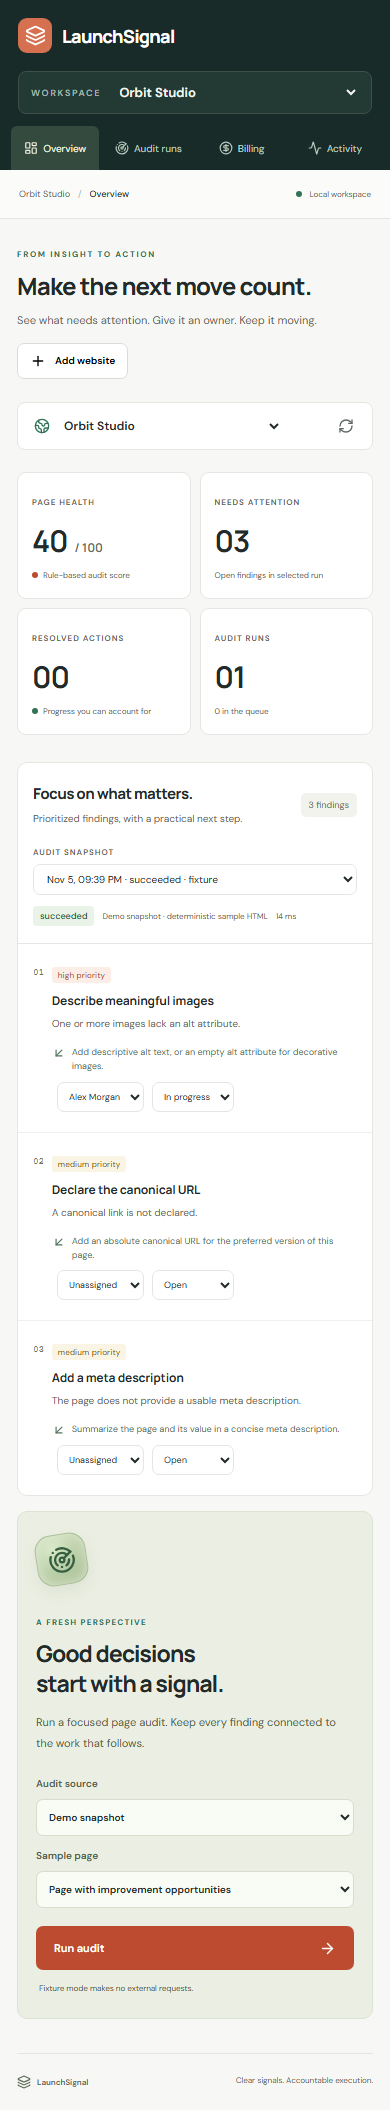
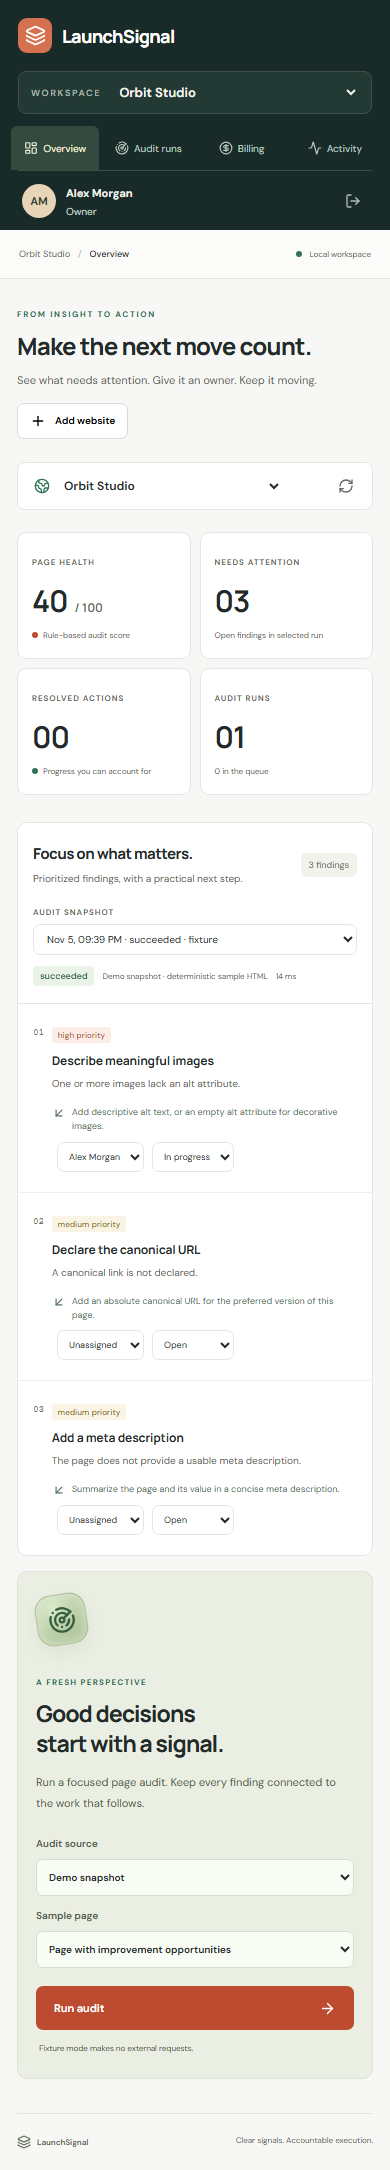
fix: isolate session state and tighten audit and billing invariants

diff --git a/frontend/src/app/page.tsx b/frontend/src/app/page.tsx
@@ -68,7 +68,8 @@ export default function Page() {
   const currentSpace = spaces.find((x) => x.workspace_id === workspace);
   const currentProject = projects.find((x) => x.id === project);
   const currentRun = runs.find((x) => x.id === selected);
-  const canWrite = currentSpace?.role !== "viewer";
+  const canWrite =
+    currentSpace?.role === "owner" || currentSpace?.role === "editor";
 
   const loadSpaces = useCallback(async () => {
     const result = await api<Workspace[]>("workspaces");
@@ -88,9 +89,15 @@ export default function Page() {
   }, [loadSpaces]);
 
   useEffect(() => {
-    if (!workspace) return;
     const stamp = ++generation.current;
     setMembers([]);
+    setProjects([]);
+    setProject("");
+    setRuns([]);
+    setSelected("");
+    setFindings([]);
+    setError("");
+    if (!workspace) return;
     api<{ id: number; name: string }[]>(`workspaces/${workspace}/members`)
       .then((items) => {
         if (generation.current === stamp) setMembers(items);
@@ -98,12 +105,6 @@ export default function Page() {
       .catch((e) => {
         if (generation.current === stamp) setError(e.message);
       });
-    setProjects([]);
-    setProject("");
-    setRuns([]);
-    setSelected("");
-    setFindings([]);
-    setError("");
     api<Project[]>(`workspaces/${workspace}/projects`)
       .then((items) => {
         if (generation.current !== stamp) return;
@@ -163,10 +164,10 @@ export default function Page() {
   }, [loadFindings, currentRun?.status]);
 
   useEffect(() => {
-    if (!workspace) return;
-    let active = true;
     setInvoices([]);
     setEvents([]);
+    if (!workspace) return;
+    let active = true;
     if (view === "billing")
       api<Invoice[]>(`workspaces/${workspace}/billing`)
         .then((x) => {
@@ -206,8 +207,8 @@ export default function Page() {
         }),
       });
       setCSRF(session.csrf_token);
-      setUser(session.user);
       await loadSpaces();
+      setUser(session.user);
     } catch (e) {
       setError((e as Error).message);
     } finally {
@@ -375,8 +376,22 @@ export default function Page() {
             onClick={async () => {
               try {
                 await api("auth/logout", { method: "POST" });
+                generation.current++;
+                runGeneration.current++;
+                findingGeneration.current++;
                 setUser(null);
+                setSpaces([]);
                 setWorkspace("");
+                setMembers([]);
+                setProjects([]);
+                setProject("");
+                setRuns([]);
+                setSelected("");
+                setFindings([]);
+                setInvoices([]);
+                setEvents([]);
+                setView("overview");
+                setError("");
               } catch (e) {
                 setError((e as Error).message);
               }

diff --git a/frontend/tests/workspace.spec.ts b/frontend/tests/workspace.spec.ts
@@ -149,3 +149,62 @@ test("create site, process a real queued audit and isolate workspace data", asyn
     page.getByRole("heading", { name: "Welcome back." }),
   ).toBeVisible();
 });
+
+test("session boundary keeps the login screen until fresh workspace data arrives", async ({
+  page,
+}) => {
+  await signIn(page);
+  await page.getByRole("button", { name: "Sign out" }).click();
+  await expect(
+    page.getByRole("heading", { name: "Welcome back." }),
+  ).toBeVisible();
+  let release!: () => void;
+  let captured!: () => void;
+  const gate = new Promise<void>((resolve) => {
+    release = resolve;
+  });
+  const requested = new Promise<void>((resolve) => {
+    captured = resolve;
+  });
+  await page.route("**/api/workspaces", async (route) => {
+    captured();
+    await gate;
+    await route.continue();
+  });
+  await page
+    .getByLabel("Password", { exact: true })
+    .fill(process.env.DEMO_PASSWORD || "");
+  await page.getByRole("button", { name: "Enter workspace" }).click();
+  await requested;
+  try {
+    await page.evaluate(
+      () =>
+        new Promise((resolve) =>
+          requestAnimationFrame(() => requestAnimationFrame(resolve)),
+        ),
+    );
+    await expect(
+      page.getByRole("heading", { name: "Welcome back." }),
+    ).toBeVisible();
+    await expect(
+      page.getByRole("heading", { name: "Make the next move count." }),
+    ).not.toBeVisible();
+  } finally {
+    release();
+  }
+  await expect(
+    page.getByRole("heading", { name: "Make the next move count." }),
+  ).toBeVisible();
+});
+
+test("mobile sign-out remains visible and clears the session", async ({
+  page,
+}) => {
+  await signIn(page);
+  await page.setViewportSize({ width: 390, height: 844 });
+  await expect(page.getByRole("button", { name: "Sign out" })).toBeVisible();
+  await page.getByRole("button", { name: "Sign out" }).click();
+  await expect(
+    page.getByRole("heading", { name: "Welcome back." }),
+  ).toBeVisible();
+});

diff --git a/frontend/src/app/globals.css b/frontend/src/app/globals.css
@@ -1077,9 +1077,12 @@ dialog .primary {
     display: none;
   }
   .nav-label,
-  .sidebar-note,
-  .account {
+  .sidebar-note {
     display: none;
+  }
+  .account {
+    display: flex;
+    padding: 12px 4px;
   }
   .main {
     margin: 0;

diff --git a/backend/tests/test_review_regressions.py b/backend/tests/test_review_regressions.py
@@ -1,0 +1,70 @@
+import json
+from pathlib import Path
+
+import pytest
+from core.api_errors import Conflict
+from core.auditing import analyze
+from core.models import BillingEvent, BillingInvoice
+from core.payments import apply_event
+from core.telemetry import HTTP_REQUESTS
+from rest_framework.exceptions import ValidationError
+from rest_framework.test import APIClient
+
+
+def apply(event):
+    return apply_event(event, json.dumps(event, sort_keys=True).encode())
+
+
+@pytest.mark.parametrize("heading", ["<h1></h1>", "<h1>  </h1>", "<h1><span></span></h1>"])
+def test_empty_primary_heading_is_a_finding(heading):
+    healthy = (Path(__file__).parents[1] / "core/fixtures/healthy.html").read_text()
+    from bs4 import BeautifulSoup
+
+    soup = BeautifulSoup(healthy, "html.parser")
+    soup.h1.replace_with(BeautifulSoup(heading, "html.parser"))
+    score, findings = analyze(str(soup))
+    assert score == 80
+    assert [item["code"] for item in findings] == ["heading"]
+
+
+@pytest.mark.parametrize(
+    "href", ["/relative", "javascript:alert(1)", "https://", "http://example.com/"]
+)
+def test_canonical_must_be_an_absolute_https_url(href):
+    healthy = (Path(__file__).parents[1] / "core/fixtures/healthy.html").read_text()
+    from bs4 import BeautifulSoup
+
+    soup = BeautifulSoup(healthy, "html.parser")
+    soup.find("link", rel="canonical")["href"] = href
+    score, findings = analyze(str(soup))
+    assert score == 85
+    assert [item["code"] for item in findings] == ["canonical"]
+
+
+@pytest.mark.django_db
+def test_provider_time_outside_database_range_is_validation_error(tenant, event):
+    event["created"] = 2**63
+    with pytest.raises(ValidationError):
+        apply(event)
+    assert not BillingEvent.objects.exists() and not BillingInvoice.objects.exists()
+
+
+@pytest.mark.django_db
+def test_an_existing_invoice_cannot_silently_change_currency(tenant, event):
+    apply(event)
+    event["id"], event["created"] = "evt_currency_change", 101
+    event["data"]["object"]["currency"] = "eur"
+    with pytest.raises(Conflict):
+        apply(event)
+    assert BillingInvoice.objects.get().currency == "usd"
+    assert BillingEvent.objects.count() == 1
+
+
+def test_untrusted_http_methods_cannot_create_unbounded_metric_series():
+    client = APIClient()
+    for verb in ["CUSTOMVERBONE", "CUSTOMVERBTWO"]:
+        assert client.generic(verb, "/api/health/live").status_code == 200
+    samples = [sample for metric in HTTP_REQUESTS.collect() for sample in metric.samples]
+    labels = {sample.labels["method"] for sample in samples}
+    assert "CUSTOMVERBONE" not in labels and "CUSTOMVERBTWO" not in labels
+    assert "OTHER" in labels

diff --git a/backend/core/auditing.py b/backend/core/auditing.py
@@ -96,7 +96,15 @@ def analyze(html):
     soup = BeautifulSoup(html, "html.parser")
     title = soup.title.get_text(strip=True) if soup.title else ""
     description = soup.find("meta", attrs={"name": "description"})
-    canonical = soup.find("link", rel="canonical")
+    headings = soup.find_all("h1")
+    canonicals = soup.find_all("link", rel="canonical")
+    canonical_valid = False
+    if len(canonicals) == 1:
+        try:
+            normalized_url(canonicals[0].get("href", "").strip())
+            canonical_valid = True
+        except FetchPolicyError:
+            pass
     rules = [
         (
             "title",
@@ -119,20 +127,20 @@ def analyze(html):
         (
             "heading",
             20,
-            len(soup.find_all("h1")) == 1,
+            len(headings) == 1 and bool(headings[0].get_text(strip=True)),
             "medium",
             "Clarify the primary heading",
-            "The page should have one clear primary H1 heading.",
+            "The page should have one non-empty primary H1 heading.",
             "Choose one descriptive H1.",
         ),
         (
             "canonical",
             15,
-            bool(canonical and canonical.get("href")),
+            canonical_valid,
             "medium",
             "Declare the canonical URL",
-            "A canonical link is not declared.",
-            "Add an absolute canonical URL for the preferred version of this page.",
+            "The page needs exactly one usable HTTPS canonical link.",
+            "Add one absolute HTTPS canonical URL for the preferred version of this page.",
         ),
         (
             "image_alt",

diff --git a/backend/core/payments.py b/backend/core/payments.py
@@ -23,7 +23,7 @@ def apply_event(event, raw_body):
         isinstance(x, str) and 1 <= len(x) <= 100 for x in (event_id, customer_id, invoice_id)
     ):
         raise ValidationError("Invalid provider references")
-    if type(created) is not int or created < 0:
+    if type(created) is not int or not 0 <= created <= 2**63 - 1:
         raise ValidationError("Invalid event time")
     due, paid, currency = (
         invoice.get("amount_due"),
@@ -53,6 +53,8 @@ def apply_event(event, raw_body):
     existing = BillingInvoice.objects.select_for_update().filter(provider_id=invoice_id).first()
     if existing and existing.workspace_id != mapping.workspace_id:
         raise Conflict("Invoice customer mapping conflict")
+    if existing and existing.currency != currency:
+        raise Conflict("Invoice currency conflicts with its existing denomination")
     status = {"invoice.paid": "paid", "invoice.payment_failed": "open", "invoice.voided": "void"}[
         kind
     ]

diff --git a/backend/core/telemetry.py b/backend/core/telemetry.py
@@ -52,7 +52,12 @@ class RequestMetrics:
         response = self.get_response(request)
         route = str(request.resolver_match.route) if request.resolver_match else "unmatched"
         elapsed = time.perf_counter() - started
-        HTTP_REQUESTS.labels(route, request.method, response.status_code).inc()
+        method = (
+            request.method
+            if request.method in {"GET", "HEAD", "POST", "PUT", "PATCH", "DELETE", "OPTIONS"}
+            else "OTHER"
+        )
+        HTTP_REQUESTS.labels(route, method, response.status_code).inc()
         HTTP_LATENCY.labels(route).observe(elapsed)
         response["X-Request-ID"] = request.request_id
         response["Cache-Control"] = "no-store"

diff --git a/docs/technical-review.md b/docs/technical-review.md
@@ -1,0 +1,41 @@
+# Technical and portfolio review
+
+This is an internal code, behavior and presentation review, not an independent human audit or a guarantee that every possible defect has been eliminated.
+
+## Findings corrected
+
+| Priority | Finding | Correction | Verification |
+| --- | --- | --- | --- |
+| P1 | Logout retained workspace state; re-login rendered the dashboard before fresh workspace discovery finished | Clear session-scoped data, invalidate outstanding responses and await fresh workspace discovery before showing authenticated UI | Delayed-workspace browser regression failed before the fix and passed afterwards |
+| P2 | Mobile CSS hid account controls, including sign-out | Keep identity and sign-out accessible at narrow widths | Mobile sign-out regression failed before the fix and passed afterwards; screenshot refreshed |
+| P2 | Empty primary headings passed the audit | Require exactly one non-empty H1 | Three empty-heading cases failed before the fix and passed afterwards |
+| P2 | Relative/script canonical URLs passed the audit | Require exactly one usable absolute HTTPS canonical URL | Four invalid-canonical cases failed before the fix and passed afterwards |
+| P2 | A provider timestamp outside PostgreSQL bigint range caused a database error | Validate the persisted integer range before mutation | Overflow regression now produces a validation error with no invoice/event writes |
+| P2 | A later event could silently change an invoice's currency | Reject denomination conflicts atomically | Regression preserves the original currency and event count |
+| P2 | Arbitrary HTTP method strings created unbounded metric labels | Map methods outside the supported set to `OTHER` | Distinct untrusted methods cannot create distinct label series |
+
+The session finding concerns client state during authentication transitions. Existing server-side tenant authorization tests continued to pass; no server-side tenant-query bypass was found in this review.
+
+## Verification
+
+- Original implementation: no third-party application's source tree or Git history was imported. Framework and package licenses remain applicable.
+- Local PostgreSQL suite: **55 tests passed**, **97.86% combined statement/branch coverage**.
+- Browser suite: **four workflows passed**, including the two newly reproduced regressions, plus desktop/mobile accessibility scans.
+- Strict TypeScript, ESLint and optimized frontend build passed. CI repeats the checks, tests Python 3.12/3.13 with Redis, builds Compose and verifies metric/log/trace ingestion.
+- Screenshots show the running application with synthetic data, not customer deployments or revenue.
+
+## Hiring presentation
+
+The strongest evidence is inspectable behavior: scoped authorization, database locking, repeat-safe delivery, payment-event validation, executable tests and an operating runbook. Present those capabilities and the design tradeoffs.
+
+This is a bounded portfolio application: five HTML rules, manual action resolution and a webhook invoice projection. It is not a comprehensive marketing suite, a checkout/general ledger or proof of operating a customer production service. Keep those boundaries visible.
+
+Selected historical Git timestamps are documented metadata, not proof of historical delivery or employment. Dependencies and GitHub's server-side timeline must not be used to imply development happened in a different year.
+
+## Remaining limits
+
+- External Stripe/Sentry account delivery, production load, independent penetration testing and container-image vulnerability scanning have not been performed. Follow the security guide before real customer use.
+- ESLint 9 is retained because the installed React ESLint plugin's declared peer range excludes ESLint 10. The package manager reports ESLint 9 as unsupported. This is development-tool maintenance debt; a compatible framework/plugin upgrade and passing lint run are required. Peer constraints have not been silently overridden.
+- No whole-internet plagiarism search or uniqueness certification was performed. Originality refers to the implementation created here and the absence of imported third-party application source/history.
+
+[CI](https://github.com/the-devcraft/launchsignal/actions) · [Security](security.md) · [Architecture](architecture.md)

diff --git a/docs/verification.md b/docs/verification.md
@@ -5,12 +5,14 @@ This file records observed checks, not a promise of a flaw-free system.
 ## Local checks
 
 - PostgreSQL 17.11; Python 3.12.14; Windows loopback-only development services.
-- Backend: 45 tests passed with 97.81% combined statement/branch coverage, including concurrent audit acceptance, concurrent payment replay and real in-process Celery delivery. CI is the current source of truth for subsequent changes.
+- Backend: 55 tests passed with 97.86% combined statement/branch coverage, including concurrent audit acceptance, concurrent payment replay and real in-process Celery delivery. CI is the current source of truth for subsequent changes.
 - Frontend: strict TypeScript, ESLint and the optimized Next build passed.
 - Browser: real login, assignment/status changes, site creation, queued baseline/healthy audits, workspace switching, billing isolation and logout. Automated WCAG A/AA desktop/mobile checks caught and drove contrast fixes.
 - Python dependency audit found no known vulnerabilities in the locked versions at verification time. This is not a guarantee against undisclosed vulnerabilities.
 
 ## CI checks
+
+The follow-up review added ten backend regression cases and two browser regressions. They failed before the fixes and passed afterwards. The complete four-workflow browser suite passed. See the [marked finding inventory](technical-review.md).
 
 The workflow validates Python 3.12/3.13 with PostgreSQL and Redis, builds frontend/backend containers, runs browser/accessibility checks against Compose and verifies actual metric/log/trace ingestion. Consult the [workflow runs](https://github.com/the-devcraft/launchsignal/actions/workflows/ci.yml) for the final commit's outcomes rather than assuming a checked-in workflow has passed.
 

diff --git a/docs/architecture.md b/docs/architecture.md
@@ -20,6 +20,8 @@ Actions carry an incrementing version. A writer supplies the version they read. 
 
 ## Payment-event projection
 
+An event timestamp must fit the persisted PostgreSQL bigint range. An existing invoice's currency is treated as an invariant: a conflicting event is rejected with HTTP 409 without mutating billing state.
+
 The webhook verifies the Stripe signature against original bytes with a five-minute tolerance before interpreting invoice fields. PostgreSQL transaction-scoped advisory locks serialize event/invoice references even when the target rows do not exist. Sorted lock acquisition prevents reference-order deadlocks. A customer row lock then scopes the event to a workspace. Unique provider IDs and a SHA-256 payload fingerprint make exact replay a no-op and conflicting replay a 409.
 
 Supported snapshot events are `invoice.paid`, `invoice.payment_failed` and `invoice.voided`. Older or equal-time events cannot overwrite an existing invoice; the first received event wins ties. Paid/void states cannot be downgraded to a different terminal or open state. This deliberately conservative projection requires operator reconciliation for ambiguous equal-time provider events. It accepts USD/EUR/GBP integer amounts; it neither charges cards nor computes balances across currencies.

diff --git a/README.md b/README.md
@@ -105,6 +105,8 @@ CI runs PostgreSQL-backed tests on Python 3.12 and 3.13, Redis worker delivery, 
 
 ## Design decisions and boundaries
 
+The [technical review](docs/technical-review.md) marks corrected findings, regression evidence and remaining limitations.
+
 - Shared-schema tenancy is enforced by API scoping and tested across roles and endpoints; it is not PostgreSQL row-level security.
 - Marking a finding resolved is a human workflow decision. Only a subsequent audit provides a new rule result; resolution never silently changes a historic score.
 - The five checks are HTML hygiene rules, not a comprehensive SEO score, accessibility audit or Lighthouse replacement.
